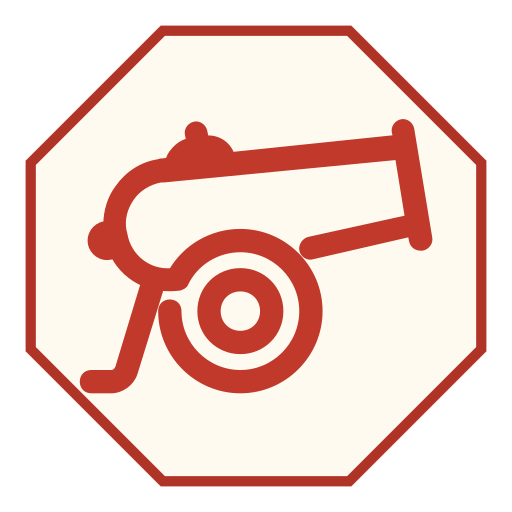
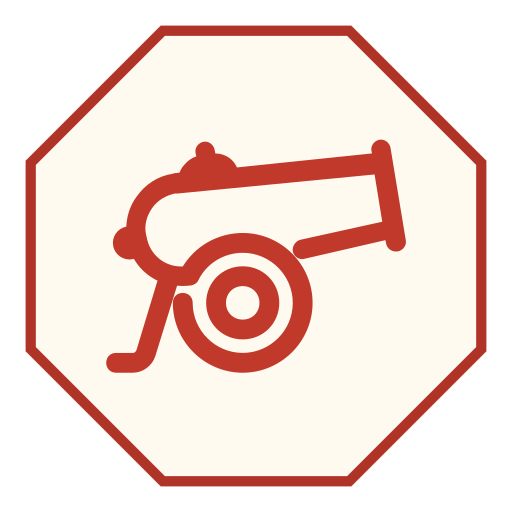
fix: standardize Janggi asset size and add pictogram margins
Use a consistent 512x512 canvas for westernized SVG and PNG assets. Scale each pictogram to 85% of its previous size while preserving the octagon frame.

Verify natural SVG render size, SVG/PNG parity, centered pictograms, and margin inside the octagon. Leave cursive and modern assets unchanged.

Changed region(s): [[0.1562, 0.2188, 0.8438, 0.7812]]

diff --git a/scripts/test-janggi-piece-assets.py b/scripts/test-janggi-piece-assets.py
@@ -15,10 +15,13 @@ COLORS = {"red": (192, 57, 43), "blue": (26, 74, 134)}
 NAMES = ("general", "advisor", "elephant", "horse", "chariot", "cannon", "soldier")
 
 
-def render(svg, size):
+def render(svg, size=None):
     if shutil.which("rsvg-convert"):
+        command = ["rsvg-convert"]
+        if size is not None:
+            command += ["--width", str(size), "--height", str(size)]
         data = subprocess.run(
-            ["rsvg-convert", "--width", str(size), "--height", str(size)],
+            command,
             input=svg.read_bytes(), capture_output=True, check=True,
         ).stdout
     else:
@@ -55,12 +58,14 @@ class WesternizedPieceAssetsTest(unittest.TestCase):
                     with Image.open(STYLE / f"{color}_{name}.png") as png:
                         png = png.convert("RGBA")
                         self.assertEqual(png.size, (512, 512))
-                        self.assertIsNone(ImageChops.difference(png, render(svg, 512)).getbbox())
+                        vector = render(svg)
+                        self.assertEqual(vector.size, png.size)
+                        self.assertIsNone(ImageChops.difference(png, vector).getbbox())
                         self.assertEqual(png.getpixel((10, 10))[3], 0)
                         self.assertEqual(png.getpixel((256, 41)), (255, 250, 240, 255))
                         self.assertEqual(png.getpixel((41, 256)), (255, 250, 240, 255))
 
-    def test_pictograms_are_large_centered_and_inside_octagon(self):
+    def test_pictograms_are_centered_with_margin_inside_octagon(self):
         for color, rgb in COLORS.items():
             for name in NAMES:
                 with self.subTest(color=color, piece=name):
@@ -69,12 +74,13 @@ class WesternizedPieceAssetsTest(unittest.TestCase):
                     left, top, right, bottom = mask.getbbox()
                     self.assertLess(abs((left + right) / 2 - 256), 3)
                     self.assertLess(abs((top + bottom) / 2 - 256), 3)
-                    self.assertGreater(max(right - left, bottom - top), 340)
-                    self.assertGreater(right - left + bottom - top, 580)
+                    self.assertGreater(max(right - left, bottom - top), 285)
+                    self.assertLess(max(right - left, bottom - top), 342)
+                    self.assertGreater(right - left + bottom - top, 490)
                     for y in range(512):
                         for x in range(512):
                             if mask.getpixel((x, y)):
-                                self.assertLess(abs(x - 256) + abs(y - 256), 308)
+                                self.assertLess(abs(x - 256) + abs(y - 256), 262)
 
     def test_piece_names_keep_original_pictograms(self):
         for name in NAMES:
